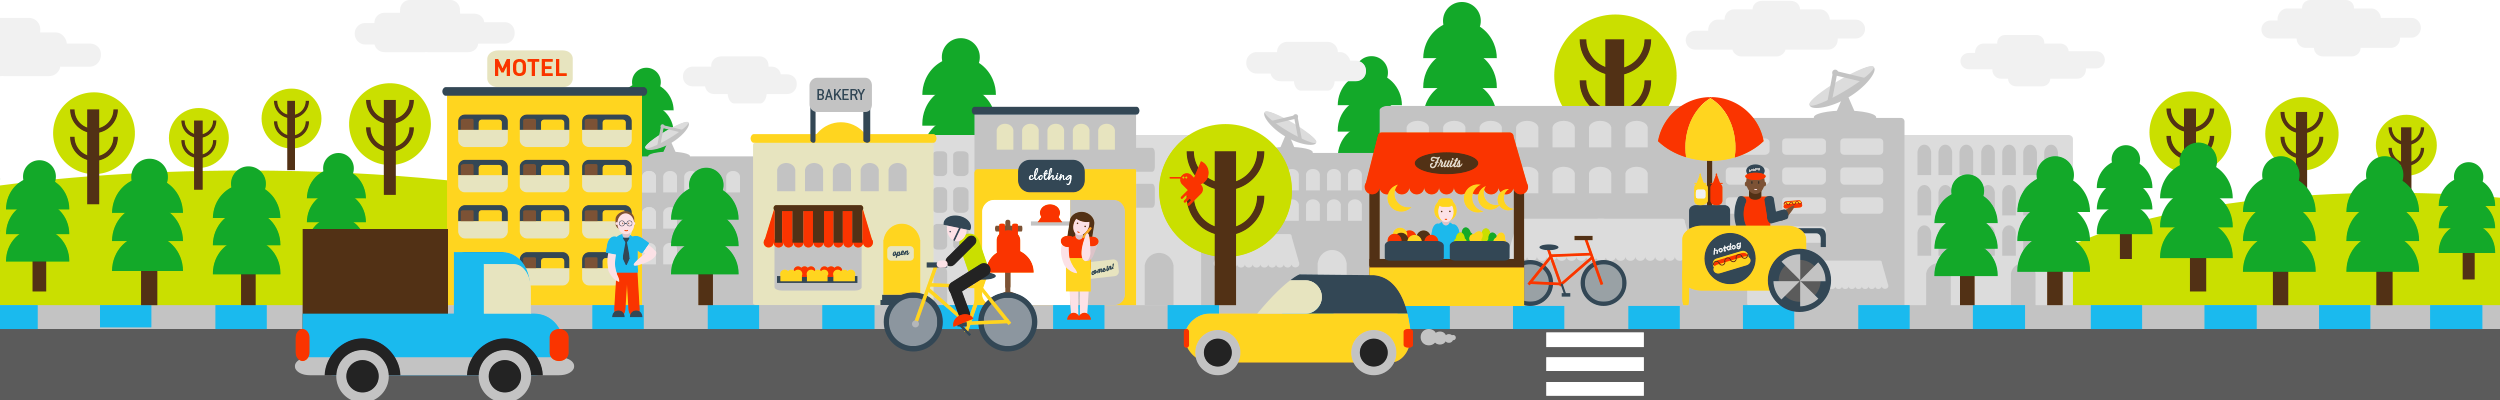
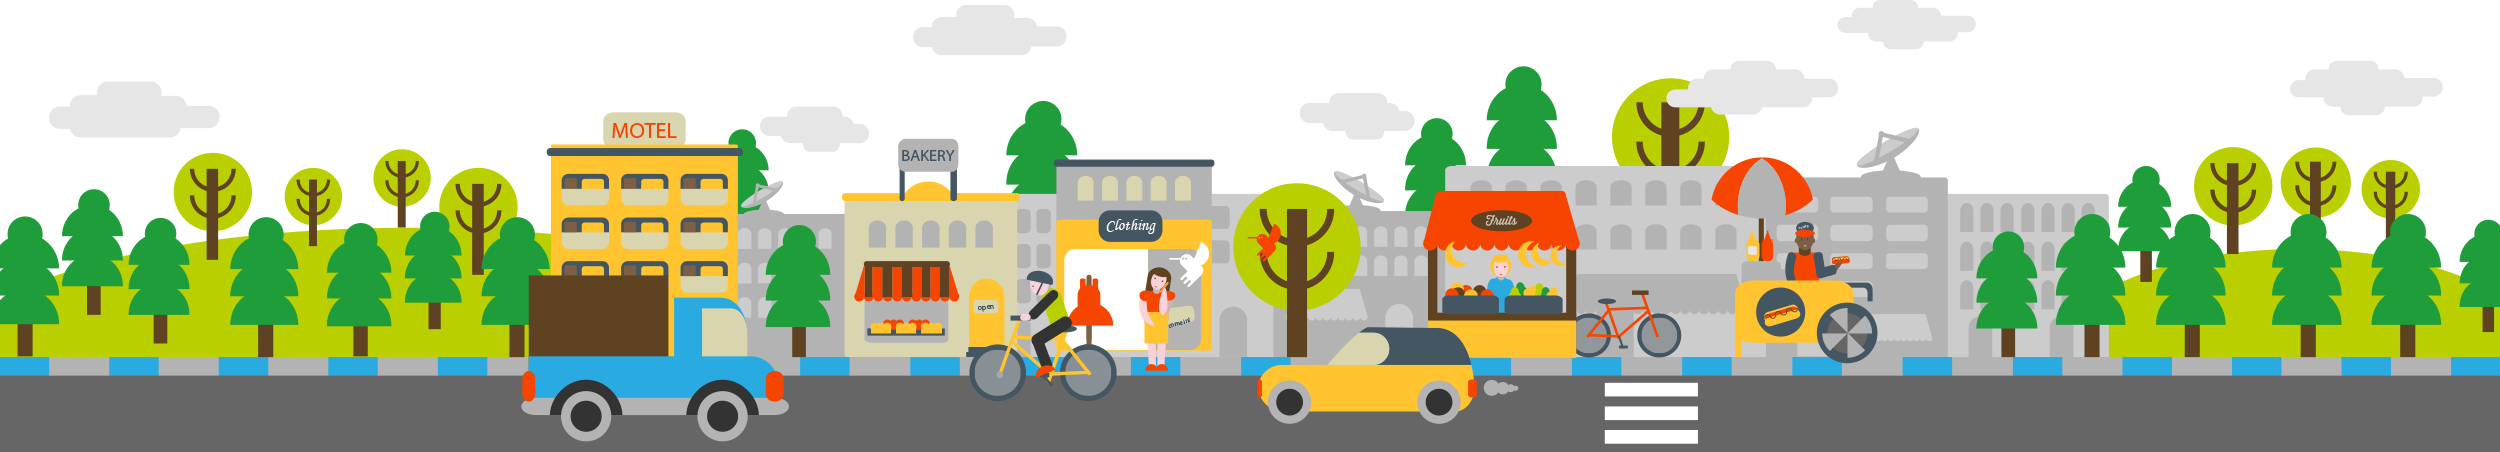
Social Actions

diff --git a/index.html b/index.html
@@ -127,6 +127,32 @@
                       </div><!-- /.col-xs-12 main -->
                     </div>
                   </section>
+                  <section class="likes">
+                    <div class="row section-likes">
+                      <div class="hidden-xs col-xs-12 text-center">
+                        <div class="likes-div">
+                          <div class="like-div">
+                            <div class="fb-like" data-href="http://otonomic.com/" data-width="86" data-layout="button_count" data-action="like" data-show-faces="false" data-share="true"></div>
+                          </div>
+                          <div class="like-div">
+                            <div class="g-plusone" data-size="medium" data-href="http://otonomic.com/"></div>
+                          </div>
+                          <div class="like-div">
+                            <a href="https://twitter.com/share" class="twitter-share-button" data-url="http://otonomic.com/" data-via="Otonomic.com" data-lang="en">Tweet</a>
+                          </div>
+                          <div class="like-div">
+                            <a href="//www.pinterest.com/pin/create/button/?url=http%3A%2F%2Fotonomic.com%2F&media=http%3A%2F%2Fotonomic.com%2Fimages%2Fsection-home-bg.png&description=Even%20a%20small%20business%20deserves%20a%20big%20spotlight." data-pin-do="buttonPin" data-pin-config="beside"><img src="//assets.pinterest.com/images/pidgets/pinit_fg_en_rect_gray_20.png" /></a>
+                          </div>
+                          <div class="like-div">
+                            <script type="IN/Share" data-url="http://otonomic.com/" data-counter="right"></script>
+                          </div>
+                        </div>
+                      </div>
+                      <div class="visible-xs col-xs-12 text-center">
+                        
+                      </div>
+                    </div>
+                  </section>
                   <section class="features"><!-- Section Features -->
                     <div class="row hidden-xs">
                       <div class="section-features holder">
@@ -638,8 +664,10 @@
     <script src="//cdnjs.cloudflare.com/ajax/libs/modernizr/2.7.1/modernizr.min.js"></script>
     <link href="http://d2zxr4ixkv1lwq.cloudfront.net/lp/css/tipsy.css" rel="stylesheet" type="text/css" />
     <!-- END Google Analytics -->
+    
+    <!-- Social  -->
+    <!-- // Facebook -->
     <div id="fb-root"></div>
-
     <script type="text/javascript">
         window.fbAsyncInit = function() {
             FB.init({ appId: "373931652687761",status: true,cookie: true,xfbml: true});
@@ -658,6 +686,22 @@
             fjs.parentNode.insertBefore(js, fjs);
         }(document, 'script', 'facebook-jssdk'));
     </script>
+    <!-- // Google Plus -->
+    <script type="text/javascript">
+      (function() {
+        var po = document.createElement('script'); po.type = 'text/javascript'; po.async = true;
+        po.src = 'https://apis.google.com/js/platform.js';
+        var s = document.getElementsByTagName('script')[0]; s.parentNode.insertBefore(po, s);
+      })();
+    </script>
+    <!-- // Twitter -->
+    <script>!function(d,s,id){var js,fjs=d.getElementsByTagName(s)[0];if(!d.getElementById(id)){js=d.createElement(s);js.id=id;js.src="https://platform.twitter.com/widgets.js";fjs.parentNode.insertBefore(js,fjs);}}(document,"script","twitter-wjs");
+    </script>
+    <!-- // Pintrest -->
+    <script type="text/javascript" async src="//assets.pinterest.com/js/pinit.js"></script>
+    <!-- // Linkedin -->
+    <script src="//platform.linkedin.com/in.js" type="text/javascript">lang: en_US</script>
+    <!-- /Social  -->
     <script>
       AUTO_FOCUS = false;
       SEARCH_PICTURE_SIZE = 80;

diff --git a/css/style.css b/css/style.css
@@ -231,13 +231,29 @@ body{
 .section-home .bg-image{
 	position: relative;
 	width: 100%;
-	margin-top: 138px;
+	margin-top: 30px;
 }
 .section-home .bg-image img{
 	position: relative;
 	top: 0;
 	margin-left: 50%;
 	left: -1250px;
+}
+/* ## Likes ## */
+.section-likes{
+	height: 60px;
+	padding-top: 20px;
+	padding-bottom: 20px;
+	background-color: #666666;
+}
+.section-likes .likes-div{
+	margin: 0 auto;
+	width: 580px;
+}
+.section-likes .like-div{
+	margin-right: 30px;
+	display: inline-block;
+	float: left;
 }
 /* ## Features ## */
 section.features .row{
